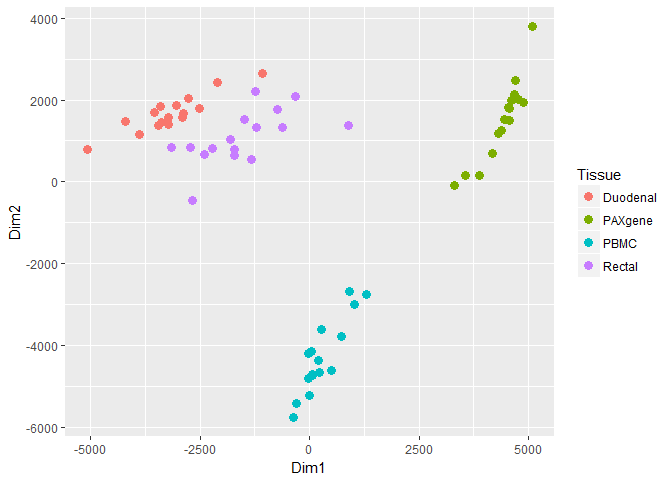
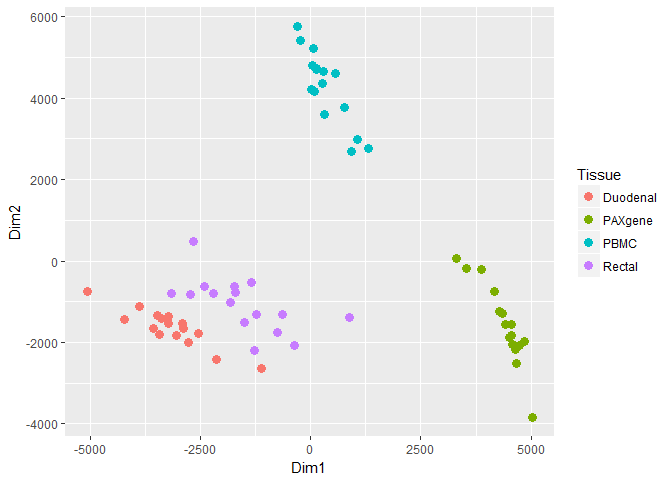
chagned non norm plots to show background corrected data

diff --git a/PrEP_Study_Microarray_Analysis.md b/PrEP_Study_Microarray_Analysis.md
@@ -16,7 +16,7 @@ Sample Types
 
 NOTE: PTID BG2305 may not have been adherent, left them in for now. May have had problems refilling prescription on time.
 
-Plots of non-normalized data
+### Plots of background-corrected but non-normalized data
 
 ![](PrEP_Study_Microarray_Analysis_files/figure-markdown_github/nonnormalized%20data-1.png)![](PrEP_Study_Microarray_Analysis_files/figure-markdown_github/nonnormalized%20data-2.png)![](PrEP_Study_Microarray_Analysis_files/figure-markdown_github/nonnormalized%20data-3.png)
 
